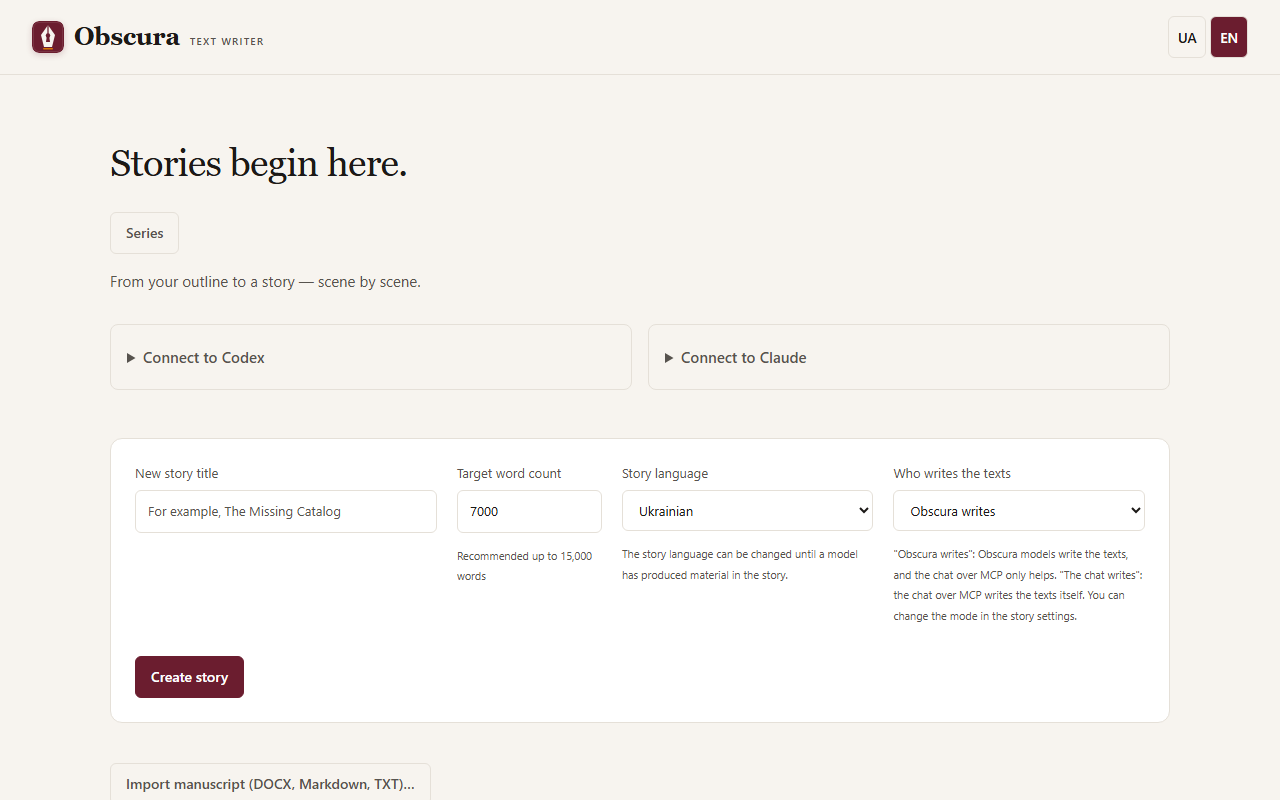
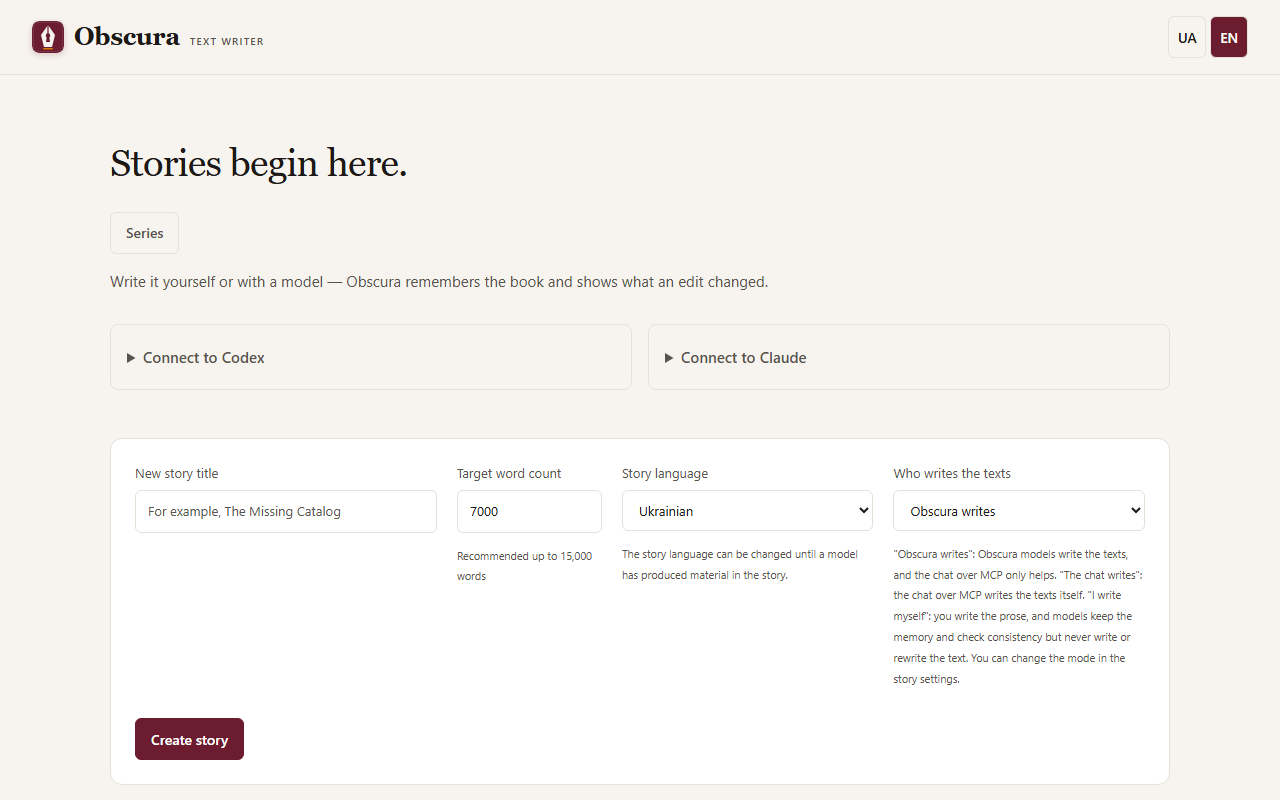
docs(R-49): режим «Пишу сам» на сайті, у скілах і SPEC
Сайт uk/en: index (три способи роботи), first-story (вибір «Пишу сам»),
workspace (новий розділ і знімок), memory («Що отримає модель»), mcp
(режим author); знімок бібліотеки з новим підзаголовком. Скіли Claude
(start-story, draft-scene, revise, series-bible) знають режим author.
SPEC: інтерфейс і WRITING-MODE-S09; `sends` і MANUSCRIPT-IMPORT-S16;
traceability і ручні процедури Playwright. Журнал і «Фактично».

Changed region(s): [[0.0938, 0.8125, 0.3125, 1.0], [0.6875, 0.7188, 0.875, 0.875], [0.0938, 0.3438, 0.5938, 0.375]]

diff --git a/src/storygen/web/static/memory-build.js b/src/storygen/web/static/memory-build.js
@@ -124,7 +124,7 @@ export function installMemoryBuild({api,json,notice,document,state}){
     const number=scene?scene.position+1:'—';
     uiText(summary,'textContent',()=>t('memory_build.ui.summary',{p0:plan.count,p1:number,p2:preview.calls})+
       (memory?' · '+t('memory_build.ui.model',{p0:`${memory.provider} / ${memory.model}`}):''));
-    // R-49 (MEMORY-BUILD): what the memory model receives; for a model on this computer, only where Obscura sends it.
+    // R-49 (MANUSCRIPT-IMPORT-S16): what the memory model receives; for a model on this computer, only where Obscura sends it.
     if(preview.sends&&memory){sends.hidden=false;uiText(sends,'textContent',()=>sendsText(preview.sends,`${memory.provider} / ${memory.model}`))}
     if(preview.cost){cost.hidden=false;uiText(cost,'textContent',()=>costText(preview.cost))}
     const list=unfit.querySelector('ul');

diff --git a/src/storygen/web/static/memory-sends.js b/src/storygen/web/static/memory-sends.js
@@ -1,5 +1,5 @@
 import {t} from './i18n.js';
-// R-49 (MEMORY-BUILD): «what the memory model receives» from the preview's `sends` (categories of the request sections).
+// R-49 (MANUSCRIPT-IMPORT-S16): «what the memory model receives» from the preview's `sends` (categories of the request sections).
 // A light module: the workspace telemetry card and the memory dialog share it without importing each other.
 const LABELS={memory_catalog:()=>t('memory_build.sends.memory_catalog'),places:()=>t('memory_build.sends.places'),series_facts:()=>t('memory_build.sends.series_facts')};
 export function sendsText(sends,model){

diff --git a/tests/generation/test_memory_sends.py b/tests/generation/test_memory_sends.py
@@ -1,4 +1,4 @@
-"""R-49 (MEMORY-BUILD): the memory build says what the memory model receives, derived from the sections of the request."""
+"""R-49 (MANUSCRIPT-IMPORT-S16): the memory build says what the memory model receives, derived from the sections of the request."""
 import pytest
 
 from storygen.domain import ContentRating
@@ -16,7 +16,7 @@ def rated(tmp_path, beats):
     return repo, repo.get_story(story.id), repo.get_scene(scene.id)
 
 
-@pytest.mark.req('MEMORY-BUILD')
+@pytest.mark.req('MANUSCRIPT-IMPORT')
 def test_sends_cover_every_section_of_the_memory_request(tmp_path):
     repo, story, scene = rated(tmp_path, 'Локація: Дім / кухня')
     context = build_context(repo, scene.id, 'memory', role())
@@ -26,7 +26,7 @@ def test_sends_cover_every_section_of_the_memory_request(tmp_path):
     assert keys == ['prose', 'memory_catalog', 'places']
 
 
-@pytest.mark.req('MEMORY-BUILD')
+@pytest.mark.req('MANUSCRIPT-IMPORT')
 def test_sends_words_sum_the_prose_of_target_scenes(tmp_path):
     repo, story, scene = rated(tmp_path, 'Вдома')
     context = build_context(repo, scene.id, 'memory', role())
@@ -34,7 +34,7 @@ def test_sends_words_sum_the_prose_of_target_scenes(tmp_path):
     assert prose == {'key': 'prose', 'scenes': 1, 'words': 2}  # «Анна вдома.»
 
 
-@pytest.mark.req('MEMORY-BUILD')
+@pytest.mark.req('MANUSCRIPT-IMPORT')
 def test_sends_omit_places_and_series_when_absent(tmp_path):
     repo, story, scene = rated(tmp_path, 'Вдома')
     context = build_context(repo, scene.id, 'memory', role())
@@ -42,14 +42,14 @@ def test_sends_omit_places_and_series_when_absent(tmp_path):
     assert 'places' not in keys and 'series_facts' not in keys
 
 
-@pytest.mark.req('MEMORY-BUILD')
+@pytest.mark.req('MANUSCRIPT-IMPORT')
 def test_local_endpoint_is_flagged():
     for url in ('http://localhost:1234/v1', 'http://127.0.0.1:11434/v1', 'http://[::1]:8080/v1'):
         assert is_local_provider(ProviderSettings(provider='local', model='m', base_url=url)), url
     assert not is_local_provider(ProviderSettings(provider='openrouter', model='m'))
 
 
-@pytest.mark.req('MEMORY-BUILD')
+@pytest.mark.req('MANUSCRIPT-IMPORT')
 def test_memory_build_preview_says_what_the_model_receives(tmp_path):
     from storygen.billing.service import set_limit
     from storygen.generation.readiness import preview

diff --git a/scripts/capture_screenshots.py b/scripts/capture_screenshots.py
@@ -419,6 +419,23 @@ def capture_character_proposal(base,story,lang):
     return [path]
 
 
+def capture_author_mode(base,ids,lang):
+    """WRITING-MODE-S09 (R-49): the workspace of a «Пишу сам» story offers «Писати прозу» instead of a model run."""
+    from playwright.sync_api import sync_playwright
+    story,scene=ids['story_id'],ids['scene_id'];folder=OUT/lang;shots=[]
+    with sync_playwright() as p:
+        browser=p.chromium.launch()
+        try:
+            page=browser.new_page(viewport={'width':1280,'height':800},locale='uk-UA' if lang=='uk' else 'en-US')
+            page.goto(base+'/');page.locator(f'[data-ui-locale={lang}]').click();page.wait_for_load_state('networkidle')
+            revision=page.request.get(f'{base}/api/stories/{story}').json()['story']['revision']
+            page.request.put(f'{base}/api/stories/{story}/writing-mode',data={'writing_mode':'author','expected_revision':revision})
+            page.goto(f'{base}/stories/{story}?scene={scene}&material=plan');page.wait_for_load_state('networkidle')
+            page.locator('#workspace-scene-status').wait_for();shot(page,folder/'workspace-author-desktop.png',shots)
+        finally:browser.close()
+    return shots
+
+
 def shot(page,path,shots):
     page.wait_for_timeout(300);page.screenshot(path=str(path));shots.append(path)
 
@@ -447,6 +464,7 @@ def main(argv=None):
             shots+=capture_editor_import(base,ids[lang],lang,editor_import_docx(Repository(data),ids[lang]['story_id'],lang))
             shots+=capture_manuscript_import(base,lang,manuscript_sample(lang))
             shots+=capture_character_proposal(base,seed_character_proposal(data,lang),lang)
+            shots+=capture_author_mode(base,ids[lang],lang)  # last: it switches the story to «Пишу сам»
         finally:
             server.terminate()
             try:server.wait(timeout=10)

diff --git a/src/storygen/generation/readiness.py b/src/storygen/generation/readiness.py
@@ -193,7 +193,7 @@ def preview(repo, request, view=None):
                 result['memory_review']=approval.review
             result['warnings']=context.context_warnings.copy()
             if stages[0]=='memory':
-                # R-49 (MEMORY-BUILD): what the memory model receives, from the sections of the first request.
+                # R-49 (MANUSCRIPT-IMPORT-S16): what the memory model receives, from the sections of the first request.
                 from .memory_build import memory_sends
                 result['sends']=memory_sends(view,settings['memory'].provider,targets,context)
             literary=any(stage in {'brief','draft'} or stage=='edit' and settings['editor'].edit_mode=='prose' for stage in stages)

diff --git a/src/storygen/generation/memory_build.py b/src/storygen/generation/memory_build.py
@@ -210,7 +210,7 @@ def series_refresh(repo, story) -> bool:
     return status is not None and status.state == 'source_finished'
 
 
-# R-49 (MEMORY-BUILD): what the memory model receives, named by the sections of its request. A new labelled section of
+# R-49 (MANUSCRIPT-IMPORT-S16): what the memory model receives, named by the sections of its request. A new labelled section of
 # the memory request without a category here fails test_sends_cover_every_section_of_the_memory_request.
 SECTION_CATEGORIES = {
     'current_prose': 'prose', 'prose_fragments': 'prose',

diff --git a/docs/site/uk/memory.md b/docs/site/uk/memory.md
@@ -89,13 +89,17 @@
 
 Якщо ви змінили прозу, а факти лишилися ті самі, натисніть на панелі під текстом **Залишити попередню пам’ять** ([стан сцени](workspace.md#стан-сцени-валідна-чи-не-перевірена)). Тоді наступна сцена не просить підтвердження через цю зміну прози. Те саме з вашої згоди може зробити чат, який працює з Obscura (див. [Чат-клієнти (MCP)](mcp.md)): він звіряє прозу з пам’яттю й залишає пам’ять замість того, щоб будувати нову.
 
+## Що отримає модель
+
+Перед побудовою пам’яті Obscura пише одним рядком, що саме отримає модель пам’яті, наприклад: «Модель «провайдер / модель» отримає: прозу 3 сцен (≈ 4200 слів), імена персонажів і пам’ять попередніх сцен, шляхи місць сцени.» Рядок перелічує лише ті частини, що справді ввійдуть у запит: прозу (скільки сцен і приблизно скільки слів), імена персонажів і пам’ять попередніх сцен, шляхи [локацій](#локації) сцени, факти біблії серії. Його видно в діалозі **Побудувати пам’ять** і в підказці до основної кнопки на вкладці **Проза**. Для локального провайдера рядок додає: «Obscura надсилає текст лише на адресу на цьому комп’ютері; куди його передає далі сервер моделі, залежить від цього сервера.»
+
 ## Побудова пам’яті книги
 
 Коли книга вже має прозу, а пам’яті ще немає (наприклад, після [імпорту рукопису](manuscript-import.md)), пам’ять усіх сцен будується одним запуском. Пункт **Побудувати пам’ять (сцен: N)** у меню **☰ «Дії твору»** видно, коли в книзі є сцени без чинної пам’яті й кожна сцена від першої такої до кінця книги має прозу; N — кількість цих сцен. У книзі, яку ви ще пишете, пункту немає: оновлюйте пам’ять сцени в робочому просторі. Пам’ять не чинна, якщо її немає, якщо її позначено застарілою після зміни, від якої вона залежить (наприклад, прози сцени), або якщо склад учасників сцени змінився після неї. Пам’ять, яку панель сцени показує застарілою лише через перевірку зв’язків чи змінені вхідні дані, цей пункт не враховує. Для такої сцени в робочому просторі є **Перебудувати пам’ять**: запуск охоплює її й усі наступні сцени до кінця книги (сцени, для яких нічого не змінилося, не оплачуються вдруге). **Оновити пам’ять** будує пам’ять лише цієї сцени. У безкоштовній версії пункту немає для книги з частинами чи книги серії: там вона лише для читання.
 
 Пункт відкриває перегляд, і без натискання **Побудувати** нічого не запускається. Перегляд показує:
 
-- скільки сцен і викликів моделі пам’яті буде, від якої сцени й яка модель;
+- скільки сцен і викликів моделі пам’яті буде, від якої сцени й яка модель, і [що отримає модель](#що-отримає-модель);
 - **Вартість: до X $ (верхня межа)** для хмарної моделі з відомою ціною. Для локальної моделі — просто «Вартість невідома»: вона не платна за тарифом. Для хмарної моделі без ціни — «Вартість невідома» з причиною. Запуск це не блокує. Кожну сцену оцінено за найбільшим запитом і найдовшою відповіддю, які дозволяє роль пам’яті, тож справжня ціна зазвичай значно нижча. Якщо ціну моделі змінили після перегляду, Obscura нічого не запускає й показує новий перегляд;
 - сцени, що не вміщуються в ліміти ролі пам’яті, з посиланнями: запуск зупиниться на них, бо текст не обрізається. Розділіть таку сцену або збільште ліміт ролі;
 - скільки є карток персонажів, хто головний герой і скільки сцен отримають учасників за іменами в прозі (див. [Імпорт рукопису](manuscript-import.md#персонажі-перед-памяттю)). Без карток перегляд попереджає «Немає карток персонажів: пам'ять не матиме стану героя» з посиланнями на **Персонажі**, **Імпорт персонажів з Markdown** і **Знайти персонажів і місця у прозі…** ([пошук моделлю](characters.md#пошук-персонажів-і-місць-у-прозі)); запуск і тоді можливий;

diff --git a/docs/site/uk/workspace.md b/docs/site/uk/workspace.md
@@ -110,6 +110,21 @@
 - Нова валідація книги скасовує зупинені перевірки цього твору (сцени чи книги), щоб не продовжити давнього плану. Діалог про це не попереджає.
 - Пауза, скасування, збій і повтор працюють так само, як для перевірки сцени.
 
+## Режим «Пишу сам»
+
+У творі з режимом **Пишу сам** прозу пишете ви. Моделі можуть скласти завдання сцени, ведуть пам’ять і перевіряють узгодженість Ревізором, але не пишуть і не переписують тексту. Режим вибирають у формі нового твору (**Хто пише тексти**) або змінюють будь-коли в налаштуваннях твору; написані тексти від цього не змінюються.
+
+![Робочий простір твору в режимі «Пишу сам»: основна кнопка «Писати прозу»](../../images/site/uk/workspace-author-desktop.png)
+
+- На вкладках **План**, **Завдання** й **Чернетка** основна кнопка — **Писати прозу**: вона відкриває вкладку **Проза**, де ви пишете сцену. Якщо в сцені вже є чернетка (наприклад, написана до зміни режиму), на вкладці **Чернетка** основна кнопка — **Взяти як прозу**.
+- Кнопок, що запускають чернетку чи редактуру моделлю, немає: ні **Редагувати поточну прозу**, ні запусків сцени цілком чи решти твору, ні переписування чернетки за коментарями.
+- На вкладці **Проза** основна кнопка, як і в інших режимах, оновлює пам’ять сцени. Підказка до неї показує, що отримає модель пам’яті ([що отримає модель](memory.md#що-отримає-модель)).
+- Пропозиції моделі-редактора, створені до зміни режиму, застосувати не можна; правки редактора-людини, імпортовані з файлу, — можна.
+- Obscura перевіряє режим і на своєму боці: запуск, що пише прозу, відхиляється з поясненням «Твір у режимі «Пишу сам»: модель не пише прозу. Змініть режим у налаштуваннях твору». Якщо ви змінили режим, поки модель писала чернетку, її відповідь не збережеться, а запуск зупиниться з цією причиною.
+- Чат-клієнт у такому творі може скласти завдання сцени й пам’ять, але не чернетку чи редактуру ([Чат-клієнти (MCP)](mcp.md#хто-пише-тексти)).
+
+Режим не доводить авторства перед третіми сторонами: він лише не дає моделям Obscura й чату писати прозу цього твору. Версії, написані моделями до зміни режиму, лишаються в історії.
+
 ## Редактор
 
 Чернетка й проза мають панель форматування: **B** (`Ctrl+B`), *I* (`Ctrl+I`), скасування (`Ctrl+Z`) і повтор (`Ctrl+Y`). **Зберегти** створює нову версію й не стирає попередніх. Вставлення переносить лише текст. Браузер попереджає, перш ніж ви підете з незбереженими правками.

diff --git a/integrations/claude/obscura/skills/start-story/SKILL.md b/integrations/claude/obscura/skills/start-story/SKILL.md
@@ -48,7 +48,7 @@ If the author already has the finished text of a book (a Word, Markdown or plain
 5. The imported book has the author's prose and no character cards yet. Before the memory, offer the character search (it works in both modes, because it writes nothing into the book until the author accepts it): `start_run(action='character_extract')` without `confirm` returns the preview: the number of scenes and groups, the cost (an upper bound, or "unknown" for a local model), `cards_count`, `pending_proposal` and the `plan_fingerprint`. Show it to the author. Only after a clear yes call it again with `confirm=True` and the same `plan_fingerprint` (and the same `group_words`, if you passed one). If the answer says the plan changed, show the new preview and ask again. Follow the run with `get_run`; when it is finished, its `character_extract.proposal` lists the new cards, the new names of the existing cards, the proposed casts of the scenes, the places of scenes (`locations`, each place with `path` and `suggested`) and the protagonist. Go through it with the author, then call `accept_character_proposal` with the choices (`cards`, `name_updates`, `casts`, `locations` as `[{scene_id, places: [path]}]`, `protagonist`), the `run_id` (from `start_run` or `get_run`) and the `fingerprint` (from the proposal), first without `confirm` to show what will be applied and skipped, and with `confirm=True` only after a clear yes. If the author declines, go on to the memory.
 6. The imported book has the author's prose and, now, the cards the author accepted (or none). Offer to build the memory, with the cost named:
    - **`obscura` mode:** `start_run(action='rebuild_memory')` without `confirm` returns the preview: the number of scenes, the cost (an upper bound, or "unknown" for a local model), the scenes that do not fit the memory model's limits, the series hint and the cast that Obscura will fill in from the names in the prose. Show it to the author. Only after a clear yes call it again with `confirm=True` and the `plan_fingerprint` from that preview. If the answer says the plan changed, show the new preview and ask again. If the preview has `series_refresh: true`, pass on its `series_refresh_hint`: the author refreshes the book from the previous one in the Obscura window first. If Obscura answers that a memory build is already queued or running, do not retry: follow that run with `get_run`. Follow the run with `get_run`.
-   - **`chat` mode:** Obscura does not start the build. Either the author switches the book to `obscura` in the book settings, or you build the memory scene by scene in the chat with the `draft-scene` skill.
+   - **`chat` or `author` mode:** Obscura does not start the build. Either the author switches the book to `obscura` in the book settings, or you build the memory scene by scene in the chat with the `draft-scene` skill.
 7. Then continue as in "After creating": the author reads the book in the Obscura window, and writing new scenes is a separate request.
 
 Importing never changes an existing book and never costs money; only steps 5 and 6 do, and only after the author has seen the cost.
@@ -63,7 +63,8 @@ Show one summary:
 
 **Writing mode:**
 - **`chat`** (default) — you write the texts;
-- **`obscura`** — Obscura's own models write them, and the author pays the provider.
+- **`obscura`** — Obscura's own models write them, and the author pays the provider;
+- **`author`** («Пишу сам» / "I write myself") — the author writes the prose; models (yours or Obscura's) only produce the brief and the memory and check consistency, never the draft or the edit.
 
 If the author has not said, recommend `chat` and say why in one line.
 

diff --git a/docs/superpowers/plans/2026-10-20-remediation-progress.md b/docs/superpowers/plans/2026-10-20-remediation-progress.md
@@ -2790,3 +2790,12 @@ Inherited whitespace у ліцензійному тексті tokenizers із ma
 - Рішення: прибирання дзеркалить прийняття місць (`stale_scene_material`, ревізія сцени), а після нього, як після інших змін панелі, автор вирішує щодо залежних сцен; сцена без місць повертається до `plan`, щоб її знову читала старіша версія.
 - Перевірка: Playwright `character-extract`, `locations`, `memory-build` (desktop і mobile) — усе пройшло; `verify.py` і рев'ю — в описі PR.
 - Це останній PR R-51 (Closes #315). Далі за беклогом — R-49, R-47.
+
+## 26.11.2026 — R-49: режим «Пишу сам»
+
+- Специфікація [2026-11-26-author-mode-design.md](../specs/2026-11/2026-11-26-author-mode-design.md) (PR #338); власник затвердив з відповідями за рекомендацією: завдання сцени дозволено, пропозиції коректури заборонено, типовим у формі лишається «Пише Obscura». Оцінка: власник M, автор M.
+- Ядро ([план](2026-11/2026-11-26-author-mode-core.md)): `Story.writing_mode='author'`, `storygen/writing_mode.py` (`RUN_MODE_WRITES` з тестом повноти), відмови в `enqueue`, `execute_stage` до виклику й після відповіді, `editor_loop`, застосуванні пропозицій моделі й зовнішніх текстах незалежно від позначки моста; MCP `start_run`/`next_steps`/інструкції. SPEC WRITING-MODE S05–S08.
+- Обв'язка ([план](2026-11/2026-11-26-author-mode-harness.md)): вибір «Пишу сам» у бібліотеці й налаштуваннях, новий підзаголовок бібліотеки; робочий простір без дій, що пишуть прозу («Писати прозу» / «Взяти як прозу»), перечитування після перемикання в іншому вікні (S09); рядок «Модель … отримає: …» у діалозі побудови пам'яті й на вкладці прози (MANUSCRIPT-IMPORT-S16). Сайт uk/en: `index`, `first-story`, `workspace` (новий розділ і знімок), `memory`, `mcp`; знімок бібліотеки; скіли Claude.
+- Рішення: сценарій «що отримає модель» віднесено до MANUSCRIPT-IMPORT (там описано побудову пам'яті), а не до окремої вимоги MEMORY-BUILD, якої в SPEC немає; `sendsText` винесено в легкий модуль `memory-sends.js`, щоб робочий простір не тягнув `editor.js` через `memory-build.js`.
+- Store-картку оновлено лише локально (`store_listing/listing.md` в основній теці): розділ «WRITE IT YOURSELF / ПИШІТЬ САМІ» без згадок рейтингів і без обіцянки «написано людиною»; подати її в Partner Center має власник.
+- Далі за беклогом — R-47.

diff --git a/docs/site/uk/mcp.md b/docs/site/uk/mcp.md
@@ -261,11 +261,12 @@ Obscura можна тримати відкритою поруч із чатом.
 
 ## Хто пише тексти
 
-Кожен твір має режим: **Пише чат** або **Пише Obscura**. Твір, створений чатом, типово має режим **Пише чат**; у формі нового твору в Obscura типово вибрано **Пише Obscura**. Режим показують список творів і відомості про твір у чаті.
+Кожен твір має режим: **Пише чат**, **Пише Obscura** або **Пишу сам**. Твір, створений чатом, типово має режим **Пише чат**; у формі нового твору в Obscura типово вибрано **Пише Obscura**. Режим показують список творів і відомості про твір у чаті.
 
 - **Пише чат**: чат пише чернетки й проходить етапи сцени сам, як описано нижче.
 - **Пише Obscura**: тексти пишуть моделі Obscura. Чат і далі читає твір, імпортує план і персонажів, змінює налаштування й публікацію, але чернетку чи результат етапу Obscura відхилить із поясненням «Твір у режимі «пише Obscura»: запустіть етап через start_run». Натомість чат може запустити етап моделлю Obscura (див. нижче).
 - У режимі **Пише чат** навпаки: етапів моделями Obscura чат не запускає, він пише сам. Виняток — перевірка Ревізором (див. нижче): вона текстів не пише, тож доступна в обох режимах.
+- **Пишу сам**: прозу пишете ви ([режим «Пишу сам»](workspace.md#режим-пишу-сам)). Чат може скласти завдання сцени й пам’ять (етапи з чату) і запустити перевірку Ревізором, але чернетку, редактуру чи запуск моделлю Obscura, що пише прозу, Obscura відхилить із поясненням «Твір у режимі «Пишу сам»: прозу пише автор». Наступні кроки, які пропонує чат, теж не містять чернетки й редактури.
 - Режим змінюєте лише ви: в налаштуваннях твору, розділ **Письмо**, поле **Хто пише тексти**. Чат змінити режим не може. Зміна режиму не чіпає написаних текстів і запущених етапів.
 
 ## Запуски Obscura з чату
